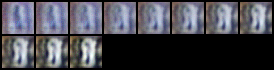
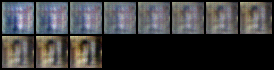
Small Fix

diff --git a/Assignment3/q3_gan.py b/Assignment3/q3_gan.py
@@ -138,7 +138,7 @@ def interpolation(gan, dimensions, device):
 
     for i in range(11):
         a = i/10
-        x_a[i] = torch.lerp(x_0, x_1, a)
+        x_a[i] = a*x_0 + (1-a)*x_1
 
     torchvision.utils.save_image(x_a, 'images/gan/3_3data.png', normalize=True)
 
